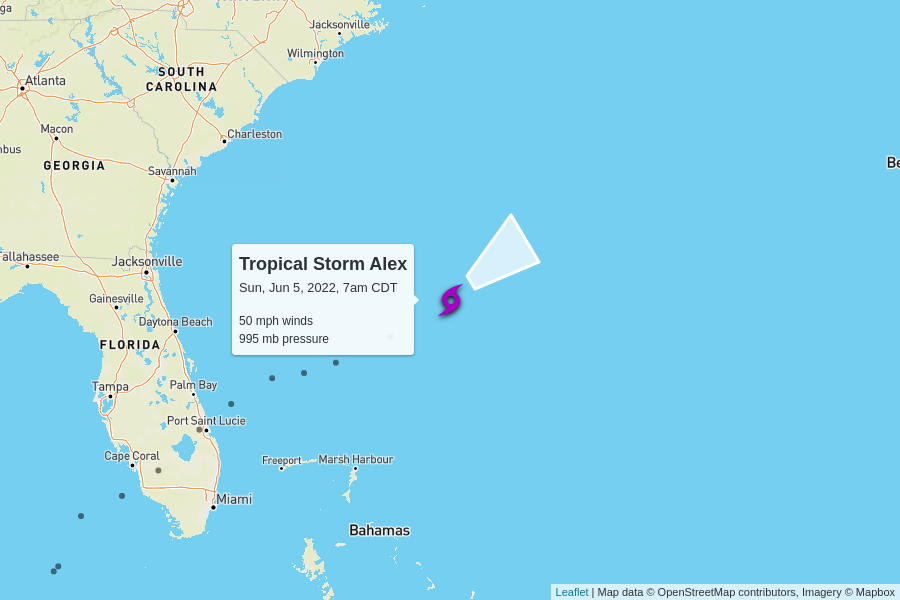
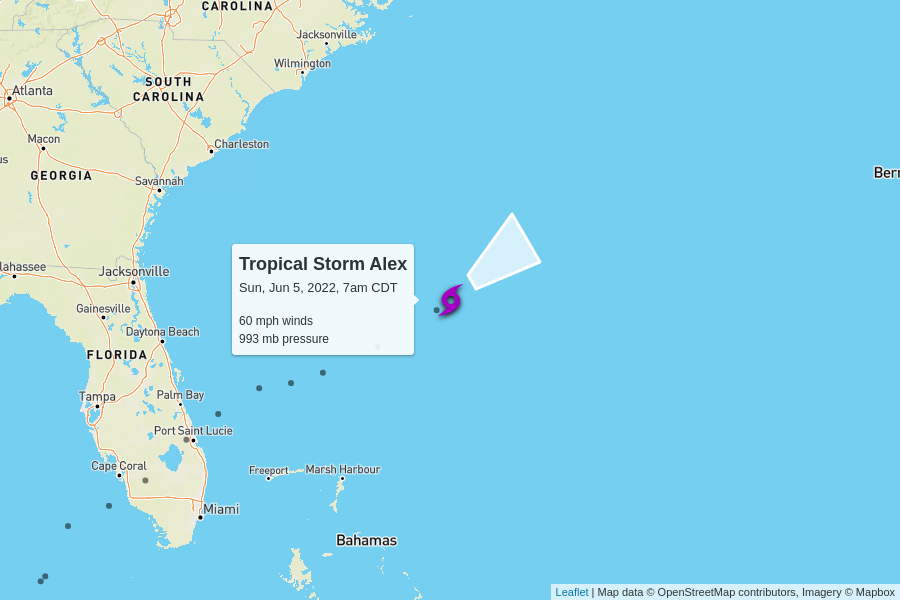
automatic update

diff --git a/docs/index.html b/docs/index.html
@@ -100,7 +100,7 @@
         <td colspan="6" class="storm category-0" >
           <h2>
             Tropical Storm Alex
-            <p class="updated">last updated <span data-time>2022-06-05T12:00:00.000Z</span></p>
+            <p class="updated">last updated <span data-time>2022-06-05T12:45:00.000Z</span></p>
           </h2>
         </td>
       </tr>
@@ -115,8 +115,8 @@
       </tr>
       <tr>
         <td class="spacer"></td>
-        <td>50 mph</td>
-        <td>995 mb</td>
+        <td>60 mph</td>
+        <td>993 mb</td>
         <td>
           22 mph to the northeast
           <br/>
